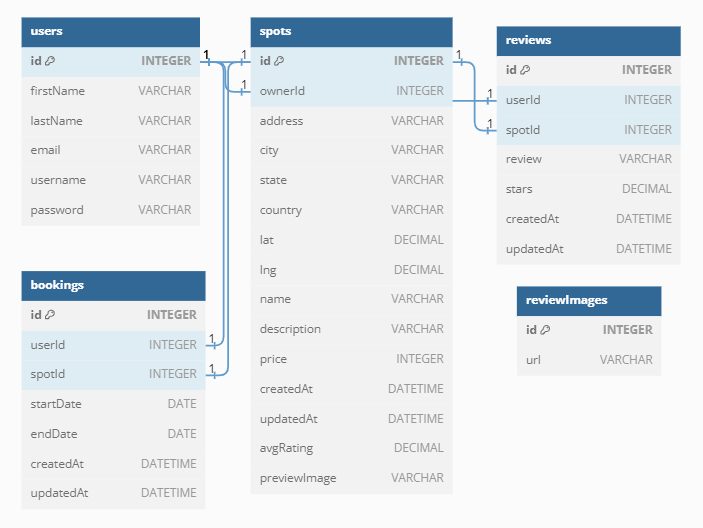
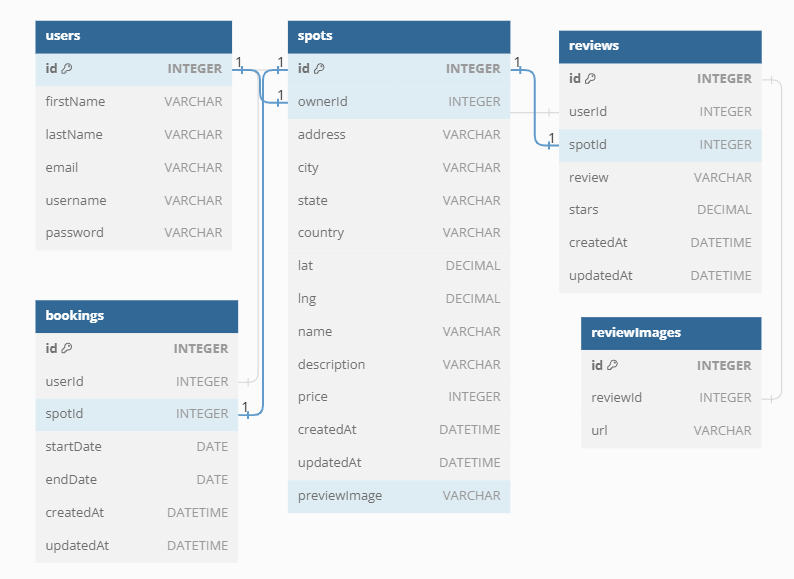
updated database schema and minor changes to API docs

diff --git a/API-docs-AirBnB.md b/API-docs-AirBnB.md
@@ -1,5 +1,7 @@
 # `<Close to Home>`
 
+## Description
+
 ## Database Schema Design
 
 ![A screenshot from dbdigagram.io of the expected database design for this project.](dbdiagram-visual.png)
